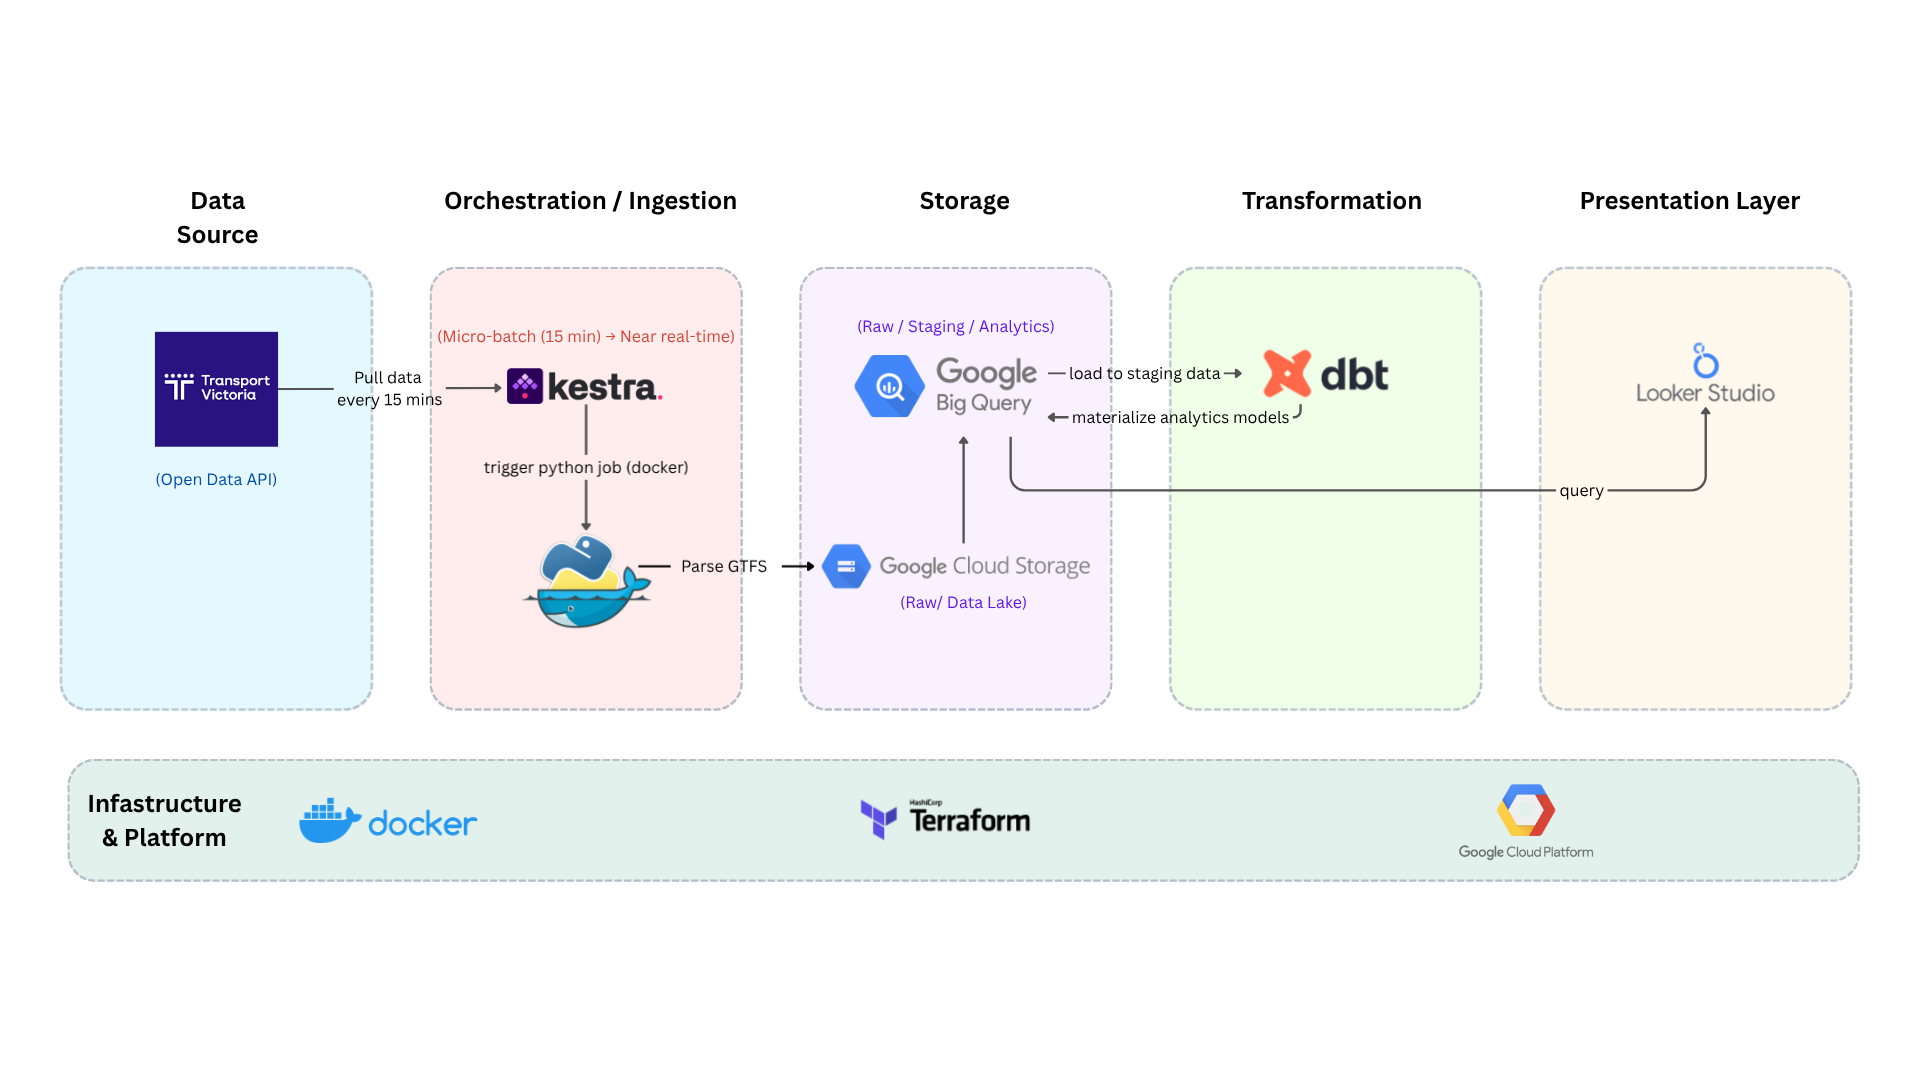
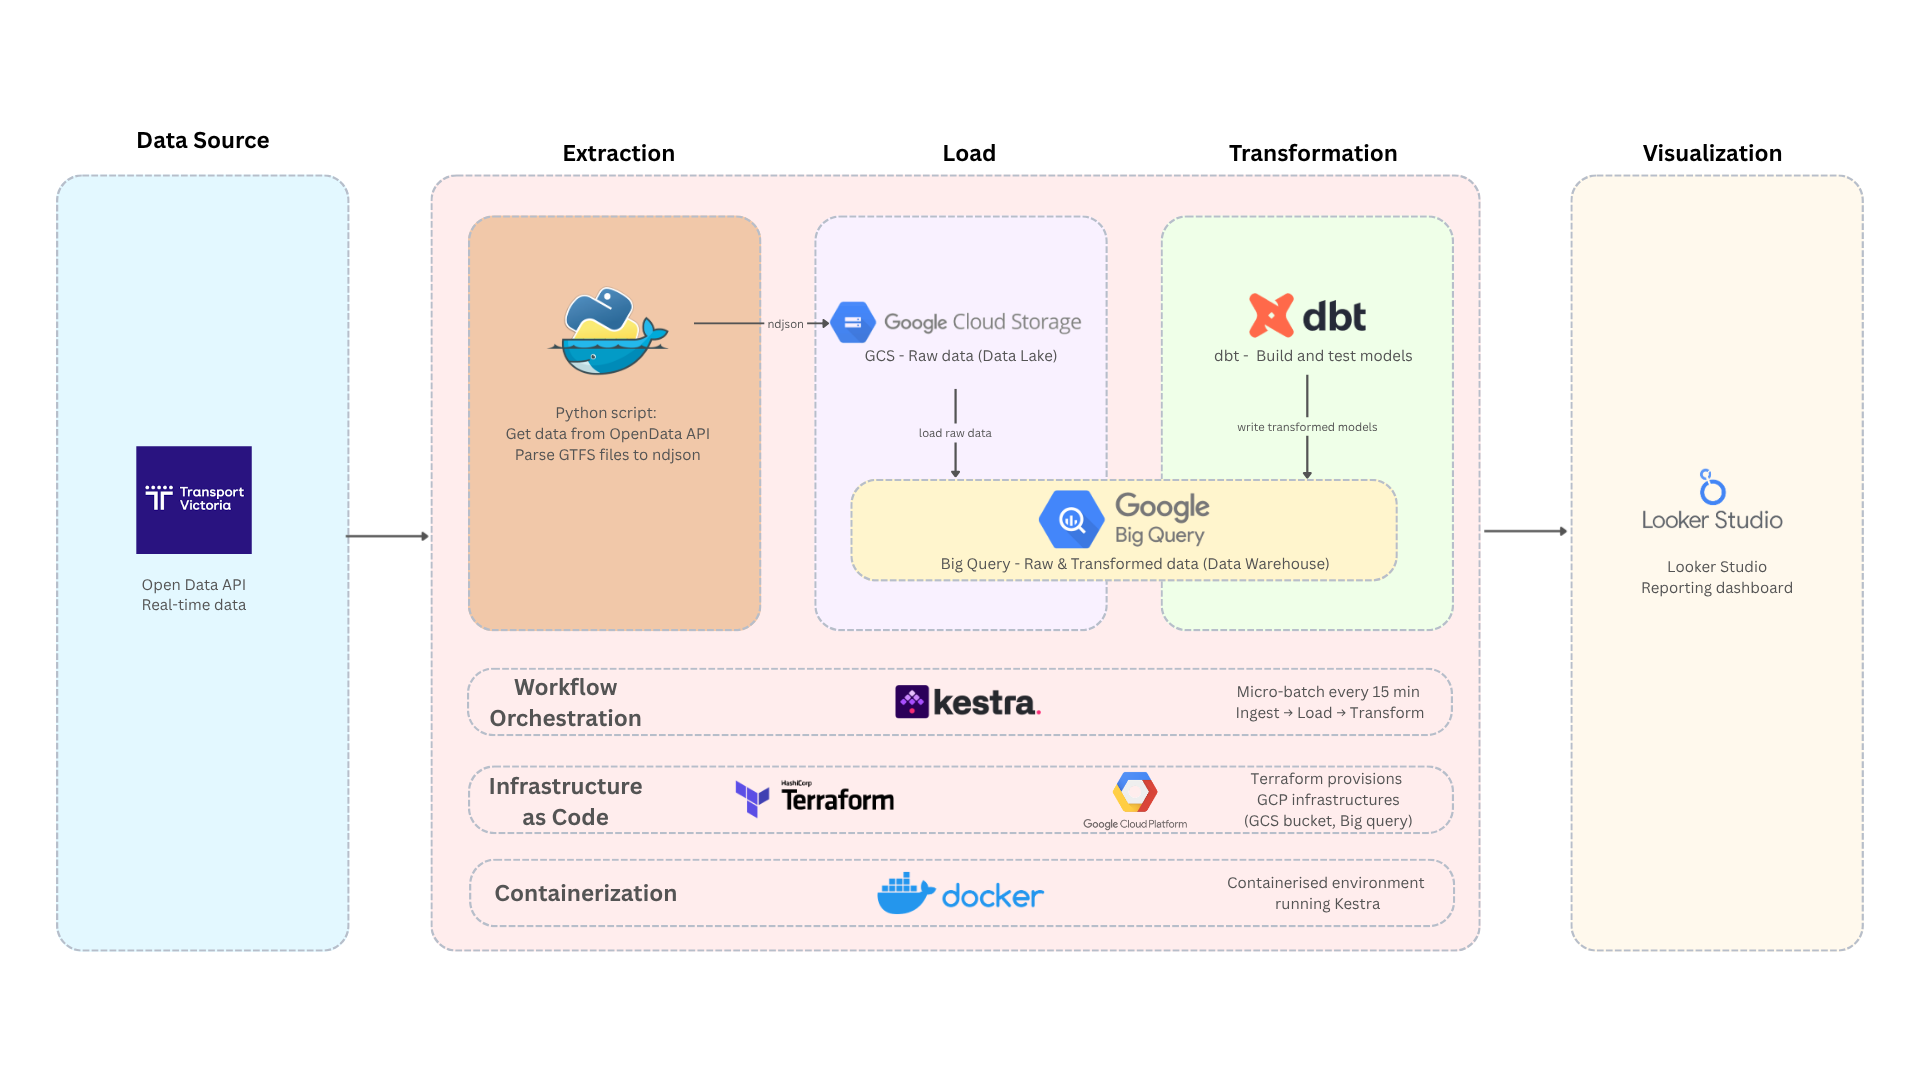
update flowchart and data sourcve overview doc

diff --git a/READme.md b/READme.md
@@ -1,8 +1,8 @@
-# Transport Victoria Service Updates Data Pipeline
+# Transport Victoria (Australia) Service Updates Data Pipeline
 
 ## 1. Problem Description
 
-Commuters and transport analysts in Victoria lack a consolidated, historical view of public transport disruptions. While real-time data is available via the PTV API, there is no built-in historical tracking. This means that public transport disruptions (e.g., maintenance, incidents, events) are difficult to analyze over time. 
+Commuters and transport analysts in the state of Victoria (Australia) lack a consolidated, historical view of public transport disruptions. While real-time data is available via the PTV API, there is no built-in historical tracking. This means that public transport disruptions (e.g., maintenance, incidents, events) are difficult to analyze over time. 
 
 This project solves this problem by building an end-to-end data pipeline that continuously ingests GTFS Realtime data (Metro Trains, Victoria), building a data lake and data warehouse, enabling users to:
 - Track the historical frequency of service disruptions.
@@ -23,6 +23,16 @@ By using a micro-batch approach (every 15 minutes), the pipeline achieves near r
 - **Data Transformation**: dbt (Data Build Tool)
 - **Dashboard**: Looker Studio
 - **Language**: Python (environment managed by `uv`)
+
+---
+
+## Data Source Overview
+GTFS Realtime Metro Train Service Alerts data feed provides real time information about planned and unplanned disruptions affecting metropolitan train services including cancellations or unforeseen events affecting a station, route or the entire network in Melbourne, Victoria. Note: This API endpoint has a rate limit of 24 calls per minute and caching time of 30 seconds.
+[API URL] (https://opendata.transport.vic.gov.au/dataset/2d9a7228-5b81-40d3-8075-ae7a3da42198/resource/2a90e184-ac14-468a-92ff-9618cb43fb77/download/gtfsr_metro_train_service_alerts.openapi.json)
+
+This API would return a response in Protocol Buffer (.pb) format.
+
+[Data Dictionary](https://opendata.transport.vic.gov.au/dataset/gtfs-realtime/resource/2a90e184-ac14-468a-92ff-9618cb43fb77)
 
 ---
 
